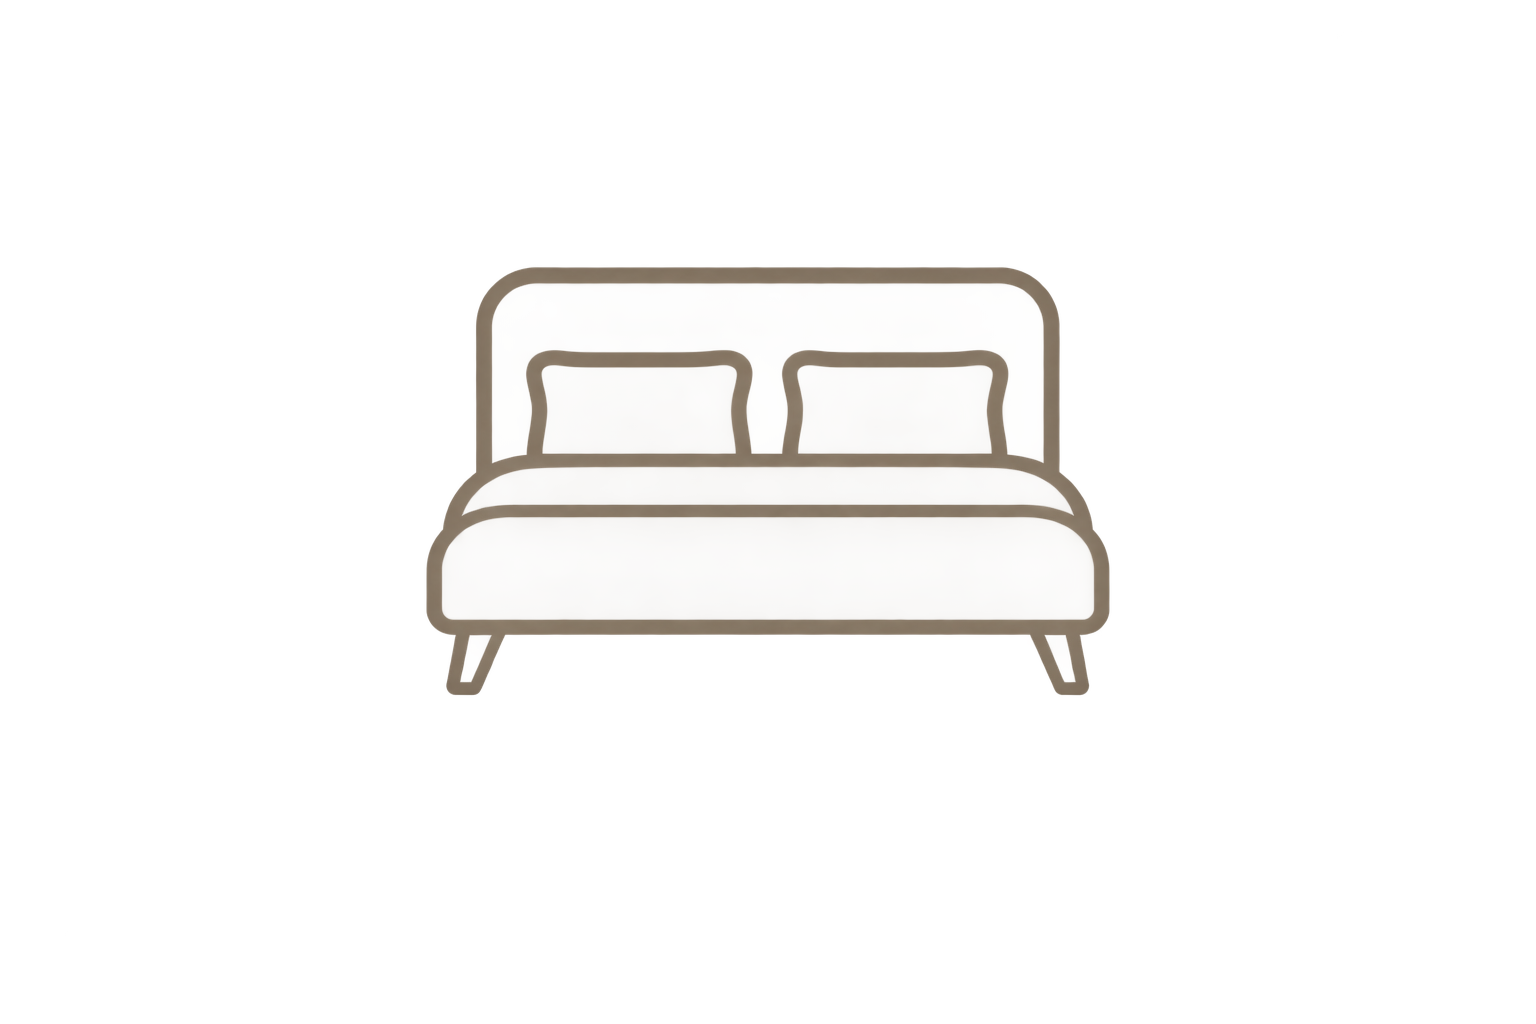
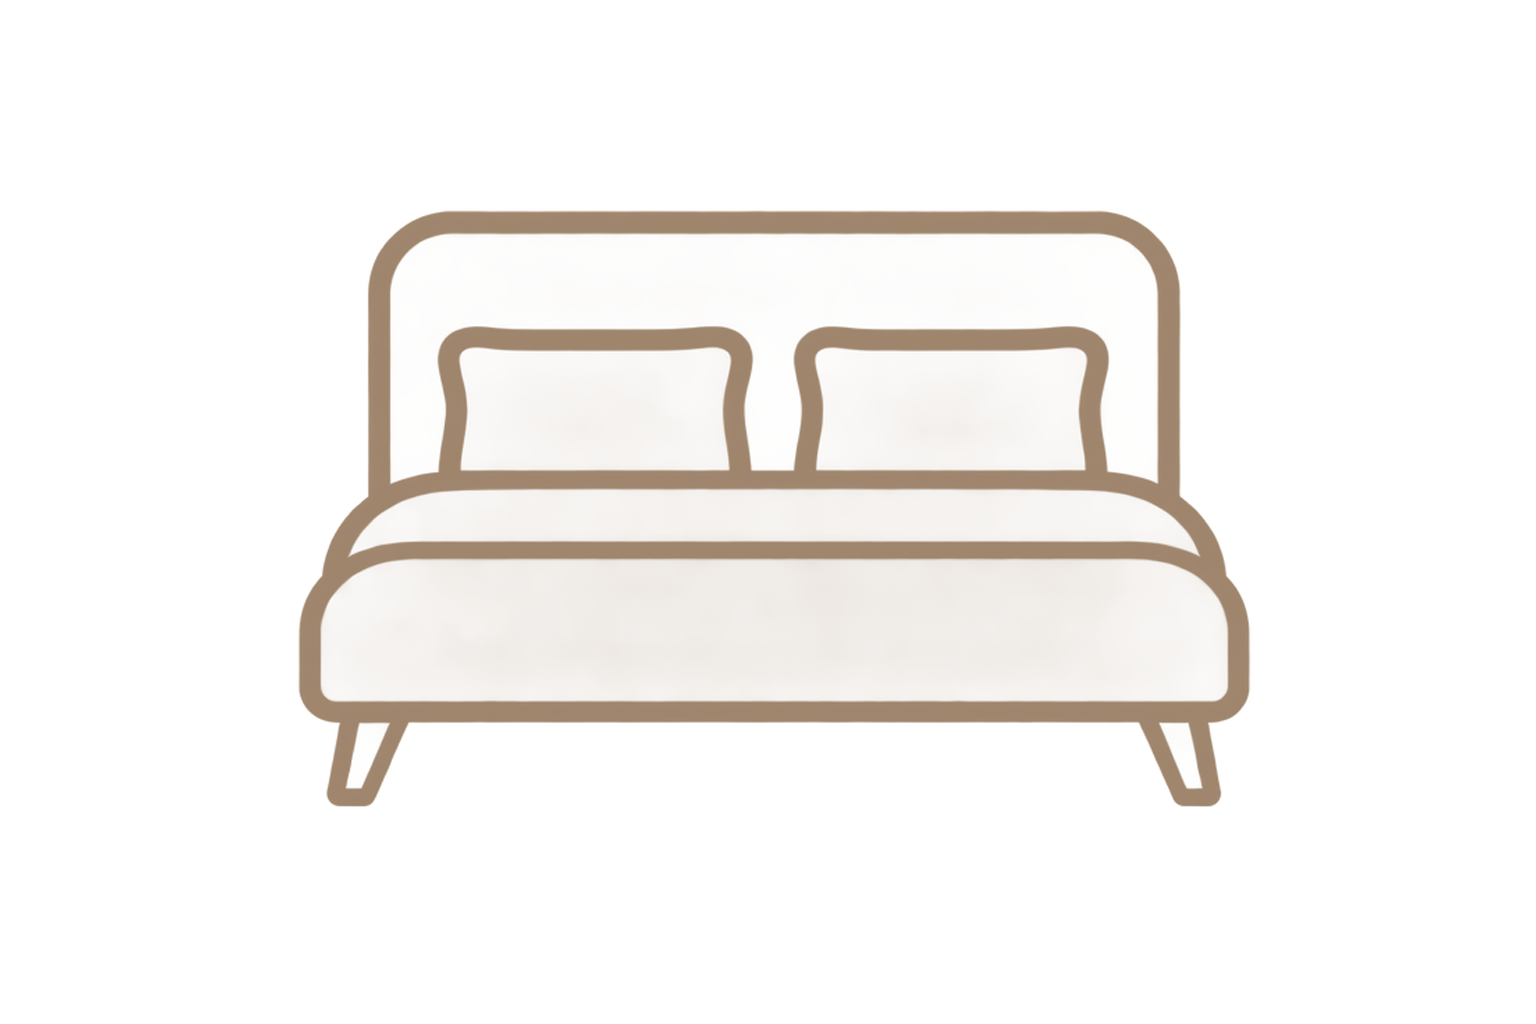
Update floor plan details

Changed region(s): [[0.1875, 0.1875, 0.8125, 0.8125]]

diff --git a/css/pearl.css b/css/pearl.css
@@ -349,19 +349,15 @@
     margin-top: -15px;
 }
 
-.floor-detail-item img[src*="mianji"] {
-    width: 125px;
-    height: 125px;
-}
 
-.floor-detail-item img[src*="bedroom"] {
-    width: 125px;
-    height: 125px;
-}
 
 .floor-detail-item strong {
     display: block;
     font-size: 17px;
     font-weight: 400;
     color: #333;
+}
+
+.floor-plan-details .floor-detail-item strong {
+    color: #9E836A;
 }
